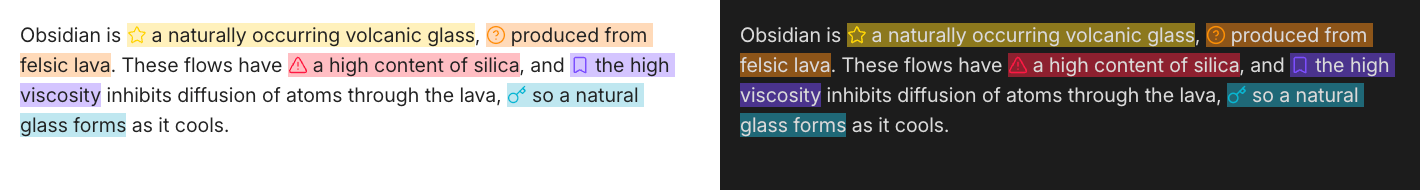
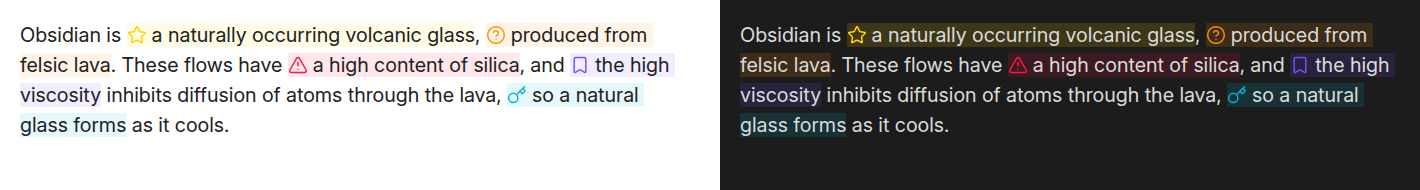
Match the highlight intensity to the list callout backgrounds

Changed region(s): [[0.0, 0.1053, 0.9915, 0.7368]]

diff --git a/styles.css b/styles.css
@@ -23,7 +23,7 @@ settings:
     id: lc-highlight-opacity-light
     title: "Highlight Intensity (light)"
     type: variable-number-slider
-    default: 0.35
+    default: 0.1
     min: 0
     max: 1
     step: 0.01
@@ -31,7 +31,7 @@ settings:
     id: lc-highlight-opacity-dark
     title: "Highlight Intensity (dark)"
     type: variable-number-slider
-    default: 0.45
+    default: 0.15
     min: 0
     max: 1
     step: 0.01
@@ -143,8 +143,8 @@ settings:
   --lc-bg-opacity-light: 0.1;
   --lc-bg-opacity-dark: 0.15;
 
-  --lc-highlight-opacity-light: 0.35;
-  --lc-highlight-opacity-dark: 0.45;
+  --lc-highlight-opacity-light: 0.1;
+  --lc-highlight-opacity-dark: 0.15;
 }
 
 .lc-list-bg {
